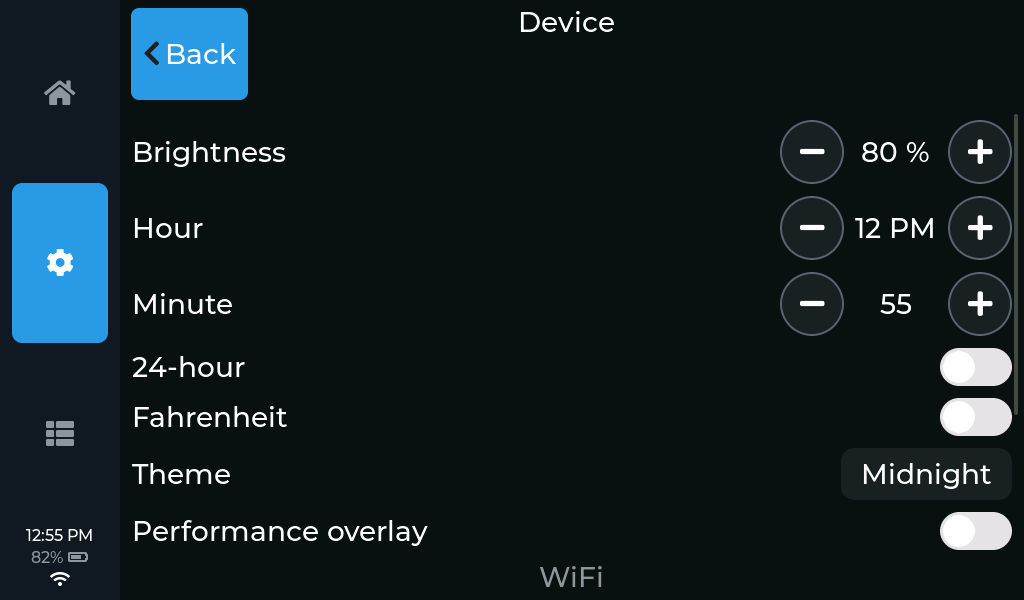
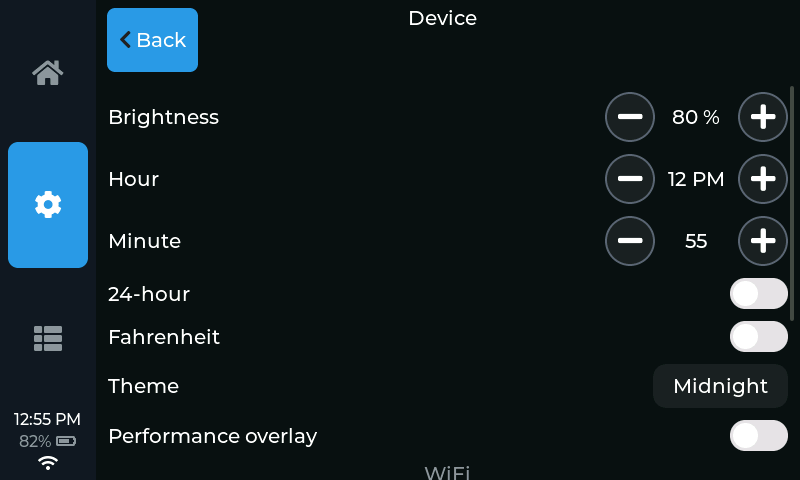
Docs: use 800x480 screenshots as the reference size
Add device + stats brew renders at 800x480 to the sim and swap the README's
settings/stats screenshots to them, so all docs/img shots share the 800x480
(4.3B) reference form factor. Other sizes are reserved for demonstrating the
responsive/multi-size layouts.

diff --git a/src/sim/main.cpp b/src/sim/main.cpp
@@ -94,6 +94,7 @@ int main() {
   ok &= r({320, 240}, "renders/scale_settings_320x240.png", 1, ui::kSectionScaleSettings);
   ok &= r({800, 480}, "renders/micra_bt_800x480.png", 1, ui::kSectionMicraBt);
   ok &= r({320, 240}, "renders/device_320x240.png", 1, ui::kSectionDevice);
+  ok &= r({800, 480}, "renders/device_800x480.png", 1, ui::kSectionDevice);
 
   // 7" 1024x600 (ESP32-S3-Touch-LCD-7B): the XL tier.
   ok &= r({1024, 600}, "renders/home_1024x600.png");
@@ -104,6 +105,7 @@ int main() {
 
   // Stats tab (tab 2): graph sections + info.
   ok &= r({320, 240}, "renders/stats_brew_320x240.png", 2, -1, false, 0, ui::kStatsBrew);
+  ok &= r({800, 480}, "renders/stats_brew_800x480.png", 2, -1, false, 0, ui::kStatsBrew);
   ok &= r({320, 240}, "renders/stats_info_320x240.png", 2, -1, false, 0, ui::kStatsInfo);
   ok &= r({1024, 600}, "renders/stats_brew_1024x600.png", 2, -1, false, 0, ui::kStatsBrew);
   ok &= r({1024, 600}, "renders/stats_boiler_1024x600.png", 2, -1, false, 0, ui::kStatsBoiler);